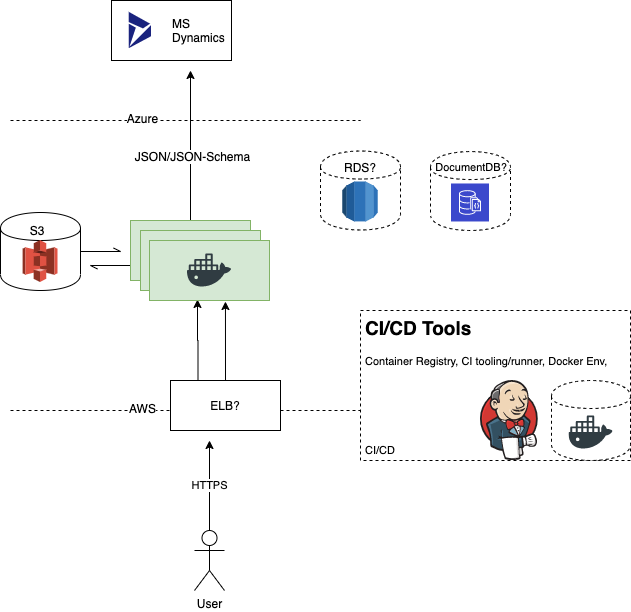
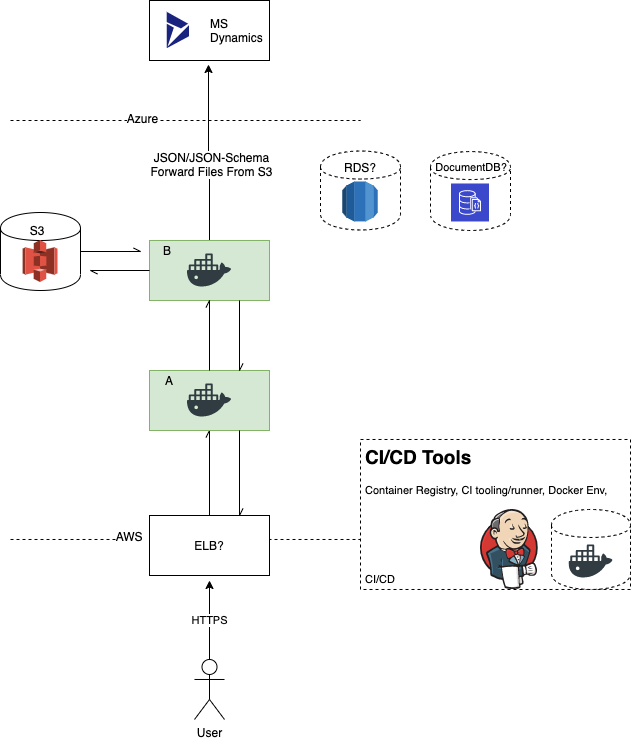
WE-3656: add service layout detail

diff --git a/docs/topics/path-to-production.md b/docs/topics/path-to-production.md
@@ -138,7 +138,43 @@ approach goes into production.
 
 ### Possible Environment Layout
 
+The system is a simplification of its predecessors. The aim is to
+have as few components as possible, deliver a basic MVP and ideally
+adjust and develop incrementally. Therefore the layout below is
+illustrative and due to the design of the system at a container
+level is easy to reactor and reconfigure.
+
 ![environment diagram](./EnvironmentDiagram.png)
+
+#### Container A
+
+This container acts as the "front door" to the service. Its core
+functionality consists of:
+
+- housing static assets (CSS, images, file templates etc...)
+- a Hapi web server serving HTML over HTTP to the load-balancer
+- consumes configuration that determines the routes, screen
+  definitions for UI and data collection
+- provides error messages and health status
+- does not have direct access to data-stores, down or up-stream
+  services
+
+#### Container B
+
+This container acts as the conduit and insulation between container
+A and data storage/ connected services. Its core functionality
+consists of:
+
+- connects directly to data-stores (S3 initially and databases
+  should they added later on)
+- passes the completed application to the downstream Dynamics CRM
+  service in Azure
+- data flows one way to CRM, both services share a JSON Schema
+  contract (currently manged via a private Git repo, will ideally
+  move to a shared Defra schema store)
+- presents a simple REST JSON API to container A, enforcing its
+  contracts via JSON Schema/OpenAPI
+
 
 ## Questions
 
